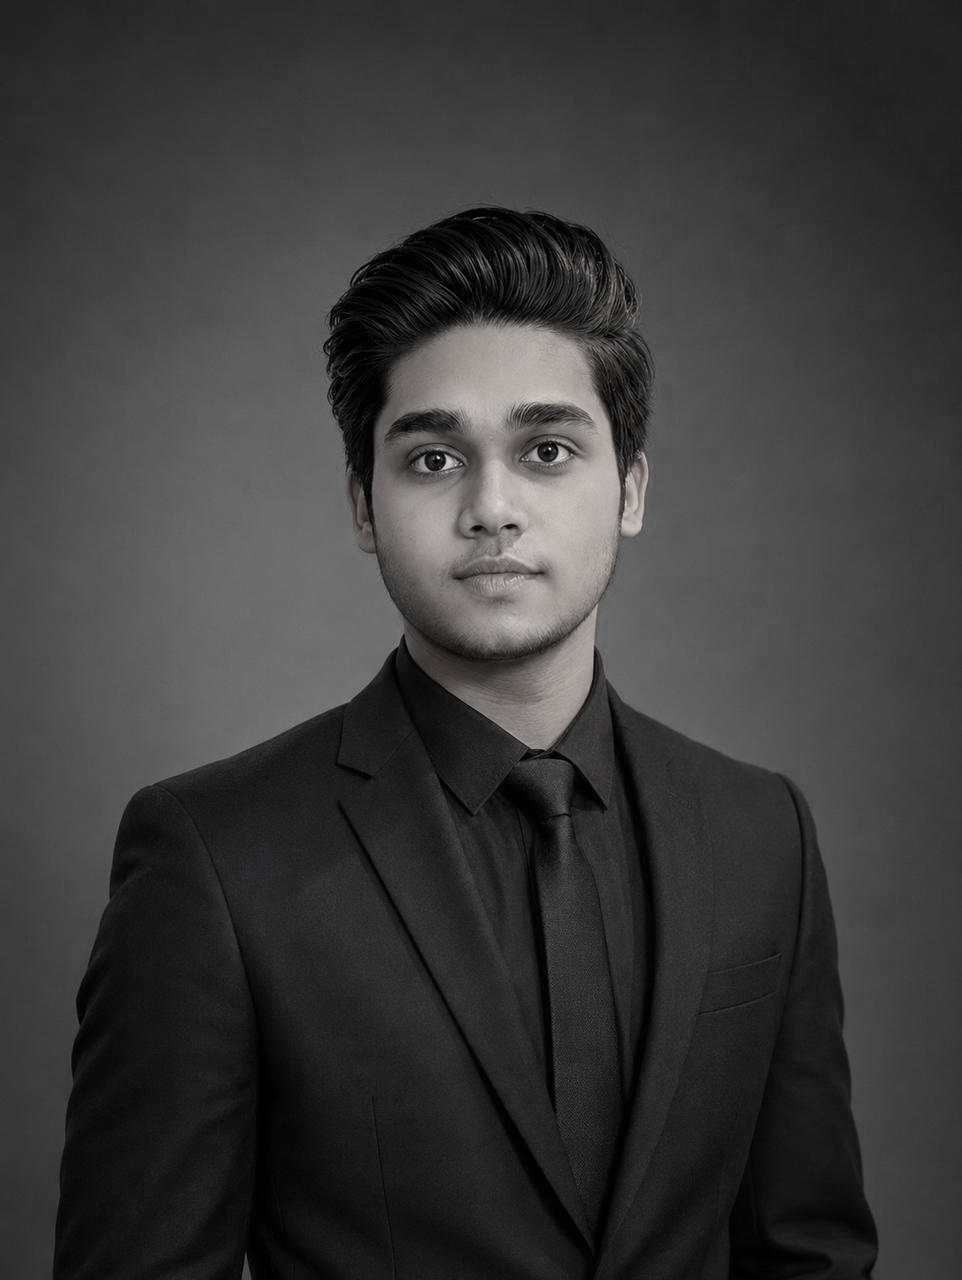
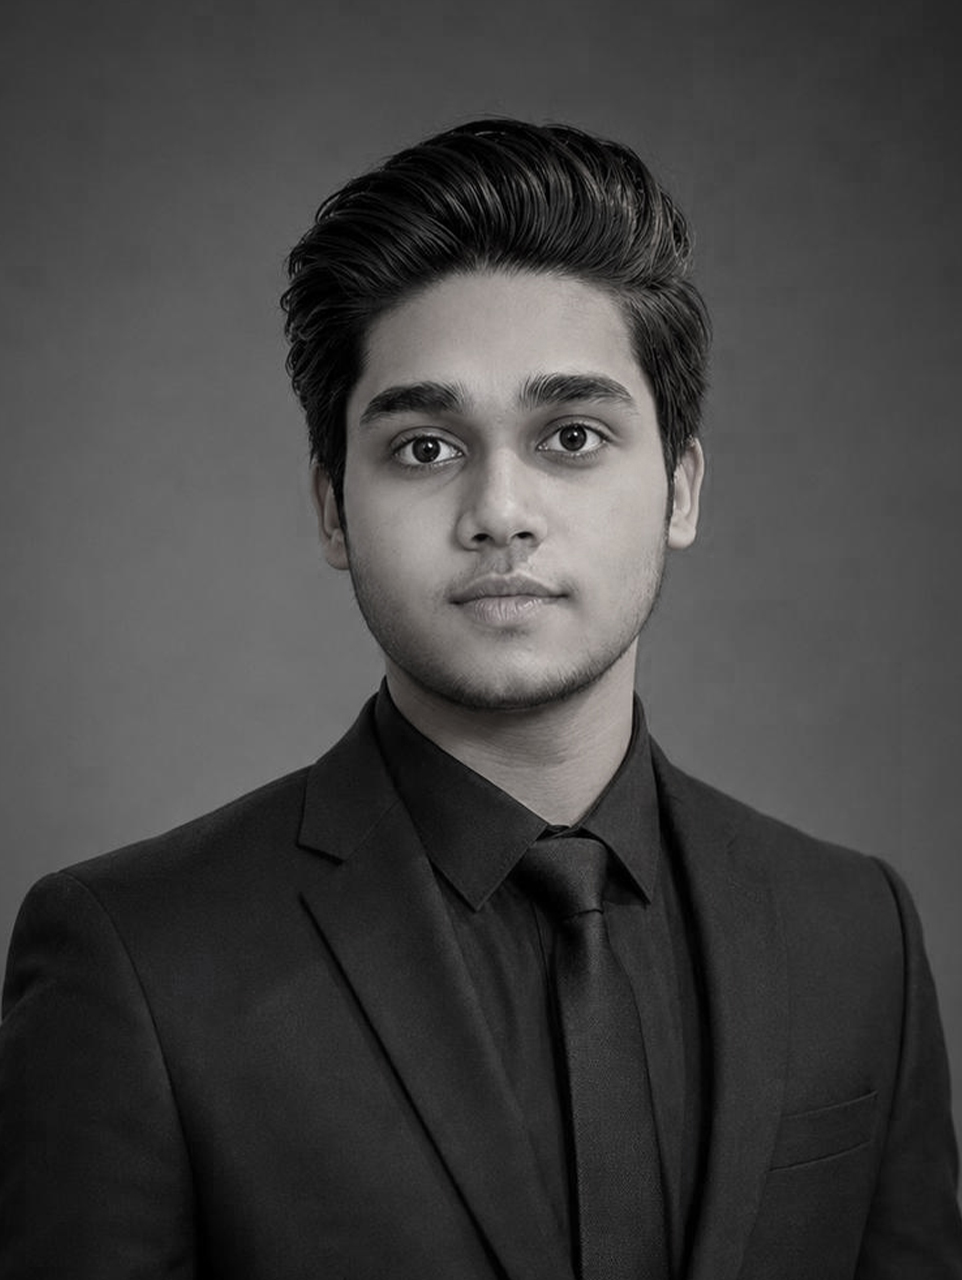
cdn revoked

diff --git a/src/components/TeamSection.jsx b/src/components/TeamSection.jsx
@@ -2,17 +2,35 @@ import { useRef, useEffect } from 'react';
 import gsap from 'gsap';
 import { ScrollTrigger } from 'gsap/ScrollTrigger';
 
+import saarangBw from '../assets/B&W HEADSHOTS/SAARANG.jpg';
+import shameekBw from '../assets/B&W HEADSHOTS/SHAHMEEK.jpg';
+import muzammilBw from '../assets/B&W HEADSHOTS/MUZAMMIL.jpg';
+import affanBw from '../assets/B&W HEADSHOTS/Affan.jpg';
+import amanBw from '../assets/B&W HEADSHOTS/AMAN.jpg';
+import ammarBw from '../assets/B&W HEADSHOTS/AMMAR.jpg';
+import shahzaibBw from '../assets/B&W HEADSHOTS/SHAHZAIB.jpg';
+import hassnainBw from '../assets/B&W HEADSHOTS/HASSNAIN.jpg';
+
+import saarangColor from '../assets/COLORFUL HEADSHOTS/SAARANG.jpg';
+import shameekColor from '../assets/COLORFUL HEADSHOTS/SHAHMEEK.jpg';
+import muzammilColor from '../assets/COLORFUL HEADSHOTS/MUZAMMIL.jpg';
+import affanColor from '../assets/COLORFUL HEADSHOTS/AFFAN.jpg';
+import amanColor from '../assets/COLORFUL HEADSHOTS/AMAN.jpg';
+import ammarColor from '../assets/COLORFUL HEADSHOTS/AMMAR.jpg';
+import shahzaibColor from '../assets/COLORFUL HEADSHOTS/SHAHZAIB.jpg';
+import hassnainColor from '../assets/COLORFUL HEADSHOTS/HASSNAIN.jpg';
+
 gsap.registerPlugin(ScrollTrigger);
 
 const avatars = [
-  'https://i.pravatar.cc/150?img=68',
-  'https://i.pravatar.cc/150?img=59',
-  'https://i.pravatar.cc/150?img=47',
-  'https://i.pravatar.cc/150?img=33',
-  'https://i.pravatar.cc/150?img=12',
-  'https://i.pravatar.cc/150?img=61',
-  'https://i.pravatar.cc/150?img=54',
-  'https://i.pravatar.cc/150?img=32',
+  { bw: saarangBw, color: saarangColor, name: 'Saarang Ali' },
+  { bw: shameekBw, color: shameekColor, name: 'Syed Shamekh Hussain' },
+  { bw: muzammilBw, color: muzammilColor, name: 'Muzammil Ahmed' },
+  { bw: affanBw, color: affanColor, name: 'Affan Abdullah' },
+  { bw: amanBw, color: amanColor, name: 'Aman Raza' },
+  { bw: ammarBw, color: ammarColor, name: 'Ammar Sheikh' },
+  { bw: shahzaibBw, color: shahzaibColor, name: 'Shahzaib Ali' },
+  { bw: hassnainBw, color: hassnainColor, name: 'Hassnain' },
 ];
 
 const TeamSection = ({ roundedTop = false }) => {
@@ -216,16 +234,25 @@ const TeamSection = ({ roundedTop = false }) => {
 
             {/* Avatars Grid */}
             <div className="avatars-container flex flex-wrap gap-2 md:gap-[10px] max-w-[380px] mb-20">
-              {avatars.map((src, i) => (
+              {avatars.map((avatar, i) => (
                 <div
                   key={i}
                   ref={el => avatarsRef.current[i] = el}
-                  className="w-[52px] h-[52px] rounded-[10px] overflow-hidden shadow-sm"
+                  className="group relative w-[52px] h-[52px] rounded-[10px] overflow-hidden shadow-sm"
                 >
-                  <img src={src} alt="Team Member" className="w-full h-full object-cover grayscale hover:grayscale-0 transition-all duration-300" />
+                  <img
+                    src={avatar.bw}
+                    alt={avatar.name}
+                    className="absolute inset-0 w-full h-full object-cover"
+                  />
+                  <img
+                    src={avatar.color}
+                    alt=""
+                    aria-hidden="true"
+                    className="absolute inset-0 w-full h-full object-cover opacity-0 group-hover:opacity-100 transition-opacity duration-300"
+                  />
                 </div>
-              ))}
-              {/* +25 Box */}
+              ))}              {/* +25 Box */}
               <div
                 ref={el => avatarsRef.current[8] = el}
                 className="w-[52px] h-[52px] rounded-[10px] bg-[#23b3e8] text-white flex items-center justify-center font-bold text-[15px] shadow-sm hover:scale-105 transition-transform cursor-pointer"

diff --git a/vite.config.js b/vite.config.js
@@ -5,7 +5,9 @@ import viteCompression from 'vite-plugin-compression'
 
 // https://vite.dev/config/
 export default defineConfig(({ command }) => ({
-  // Vercel / local: site is served from domain root → base `/`
+  // Do NOT set bunny CDN as `base` — JS/CSS modules require CORS from the CDN
+  // and break the Vercel site. Serve app assets from the same origin instead.
+  // Use bunny for images/storage separately if needed.
   // GitHub Pages project site only: https://muzammil2222.github.io/markcoders.com/
   base:
     command === 'build' && process.env.GITHUB_ACTIONS === 'true'
@@ -21,10 +23,10 @@ export default defineConfig(({ command }) => ({
     allowedHosts: true,
   },
   plugins: [
-    react(), 
+    react(),
     tailwindcss(),
     viteCompression({ algorithm: 'gzip', ext: '.gz' }),
-    viteCompression({ algorithm: 'brotliCompress', ext: '.br' })
+    viteCompression({ algorithm: 'brotliCompress', ext: '.br' }),
   ],
   build: {
     rollupOptions: {
@@ -32,19 +34,19 @@ export default defineConfig(({ command }) => ({
         manualChunks: (id) => {
           if (id.includes('node_modules')) {
             if (id.includes('react') || id.includes('react-dom') || id.includes('react-router-dom')) {
-              return 'vendor-react';
+              return 'vendor-react'
             }
             if (id.includes('gsap')) {
-              return 'vendor-gsap';
+              return 'vendor-gsap'
             }
             if (id.includes('three') || id.includes('@react-three')) {
-              return 'vendor-three';
+              return 'vendor-three'
             }
-            return 'vendor';
+            return 'vendor'
           }
         },
       },
     },
     chunkSizeWarningLimit: 1000,
-  }
+  },
 }))

diff --git a/src/components/AboutHero.jsx b/src/components/AboutHero.jsx
@@ -141,7 +141,7 @@ const AboutHero = ({ previewImageRef }) => {
       />
       <div className="relative z-10 w-full flex-1 flex flex-col">
         <PageHero
-          title={"About us\nMarkCoders"}
+          title={"About us"}
           subtitle="MarkCoders is a custom software development company built to turn ambitious business ideas into reliable, scalable digital products."
           layout="split"
           spread
